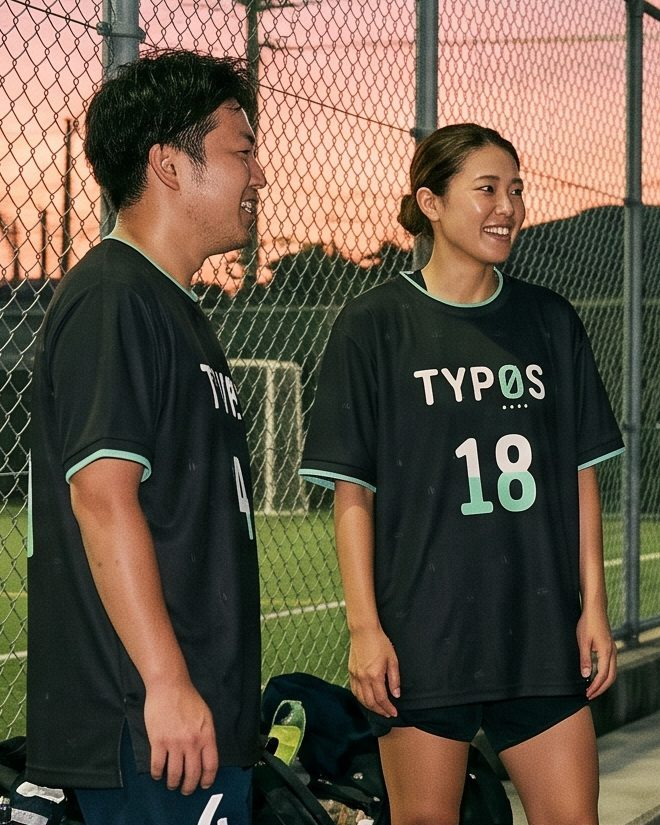
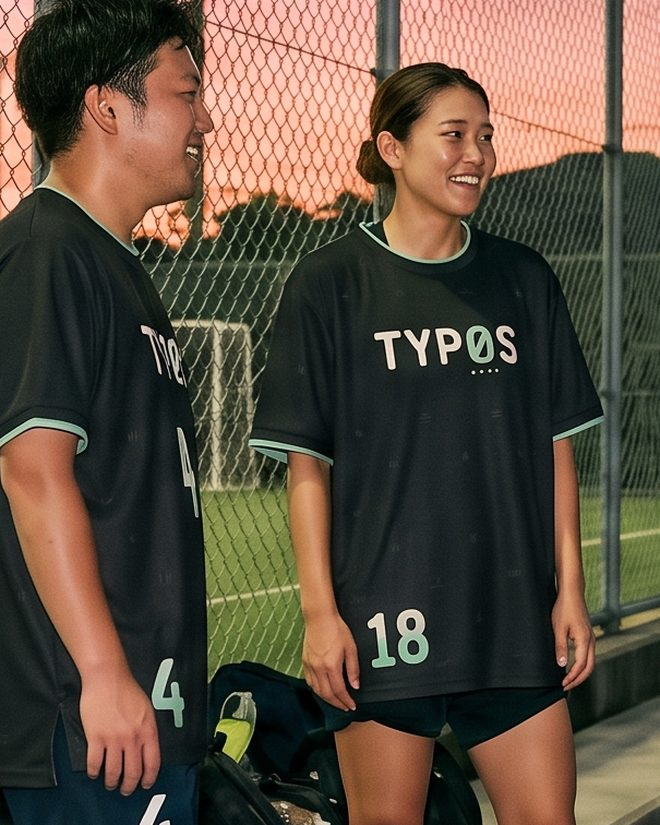
写真を裾番号版に差し替え(トップ・個サルのあと)
Claude-Session: https://claude.ai/code/session_014XGcTNr9Gj2WD7MZmjQPbo

diff --git a/index.html b/index.html
@@ -307,7 +307,7 @@ footer a{text-decoration:none}
 <section class="hero" id="drop">
   <div class="wrap grid">
     <div class="photo">
-      <img src="/img/wear/hero-30.jpg" alt="沖縄のビーチで流木に掛けた、ユニ。INK BLACK。胸に TYP0S と背番号30" width="1100" height="1365" fetchpriority="high">
+      <img src="/img/wear/hero-30.jpg" alt="沖縄のビーチで流木に掛けた、ユニ。INK BLACK。胸に TYP0S、裾に背番号30" width="1100" height="1365" fetchpriority="high">
       <svg class="stamp" viewBox="0 0 100 100" aria-hidden="true">
         <defs><path id="ring" d="M50,50 m-38,0 a38,38 0 1,1 76,0 a38,38 0 1,1 -76,0"/></defs>
         <circle cx="50" cy="50" r="49" fill="#92E5BD"/>
